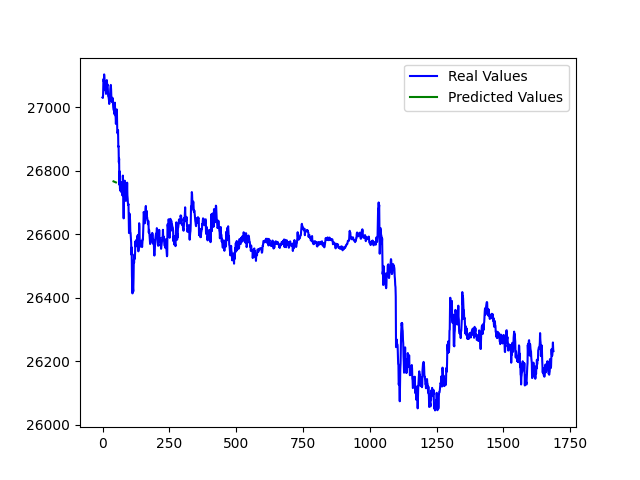
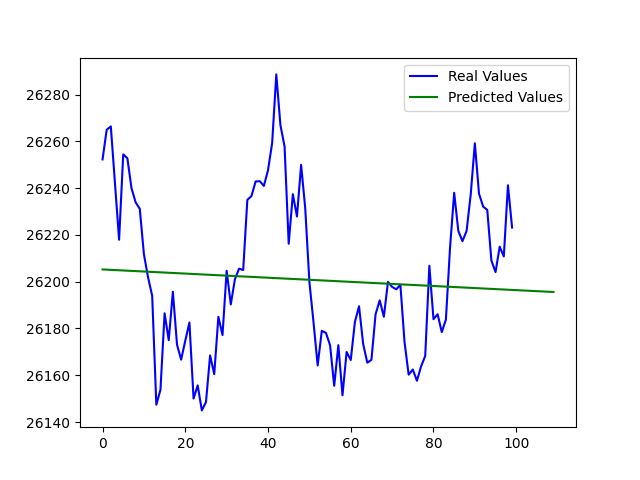
predicting and plotting. not very responsive though.

diff --git a/simple_timeseries.py b/simple_timeseries.py
@@ -5,20 +5,21 @@ import tensorflow as tf
 from tensorflow import keras
 
 from api import fetch_ohlcv_range, get_dates_and_data_from_latest_file
-s,e,data = get_dates_and_data_from_latest_file()
+from save_model import save_model
+# s,e,data = get_dates_and_data_from_latest_file()
 
 #get the range
 def fetch_range():
     end = datetime.datetime.now()    
-    start = end - datetime.timedelta(0,300*10)
+    start = end - datetime.timedelta(0,300*100)
     return start,end
-
+s,e =fetch_range()
 df_new = fetch_ohlcv_range(
         s, e, "BTCUSDT", "5m", "spot")
 
-s,e = 0,41
-# Assuming df_new is your new OHLCV data and 'Close' is the column with closing prices
-values = df_new['close'].values
+# Exclude 'time' column
+features = [col for col in df_new.columns if col != 'date']
+values = df_new[features].values
 
 # Your time series data
 time = np.array(range(len(values)))
@@ -33,16 +34,17 @@ y_train_norm = (y_train - np.mean(y_train)) / np.std(y_train)
 
 # Define the model
 model = keras.Sequential([
-    keras.layers.Dense(units=1, input_shape=[1])
+    keras.layers.Dense(units=len(features), input_shape=[1])
 ])
 
 # Compile the model
 model.compile(optimizer='sgd', loss='mean_squared_error')
 
+
+model = keras.models.load_model('Model.h5')
 # Train the model
-model.fit(x_train_norm, y_train_norm, epochs=500)
-
-
+# m = model.fit(x_train_norm, y_train_norm, epochs=500)
+save_model(model,"Model") 
 
 def predict_value(i):
     # Predict the next value
@@ -58,14 +60,14 @@ def predict_value(i):
 # Call the function for 10 moments beyond the training data and plot the results
 real_values = values.tolist()
 predicted_values = []
-predicted_times = list(range(e, e+10))
+predicted_times = list(range(0, len(values)+10))
 for i in predicted_times:
     predicted_value = predict_value(i)
     predicted_values.append(predicted_value[0][0])  # Flatten the predicted values
     print(f"The predicted value for day {i} is: {predicted_value}")
 
 # Plot real and predicted values
-plt.plot(time, real_values, color='blue', label='Real Values')
+plt.plot(time, np.array( real_values)[:,0], color='blue', label='Real Values')
 plt.plot(predicted_times, predicted_values, color='green', label='Predicted Values')
 plt.legend()
 plt.savefig("plot.png")

diff --git a/save_model.py b/save_model.py
@@ -1,2 +1,3 @@
-def save_model(model, filename):
-    model.save(filename)
+def save_model(model, model_name):
+    # Save the model to disk
+    model.save(f'{model_name}.h5')
